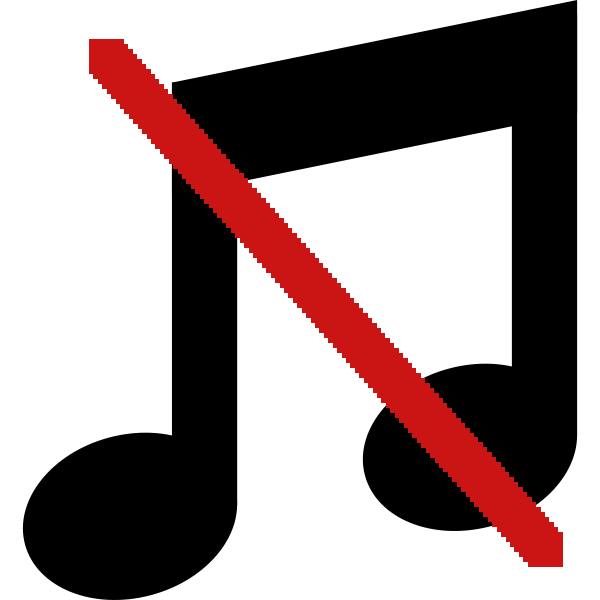
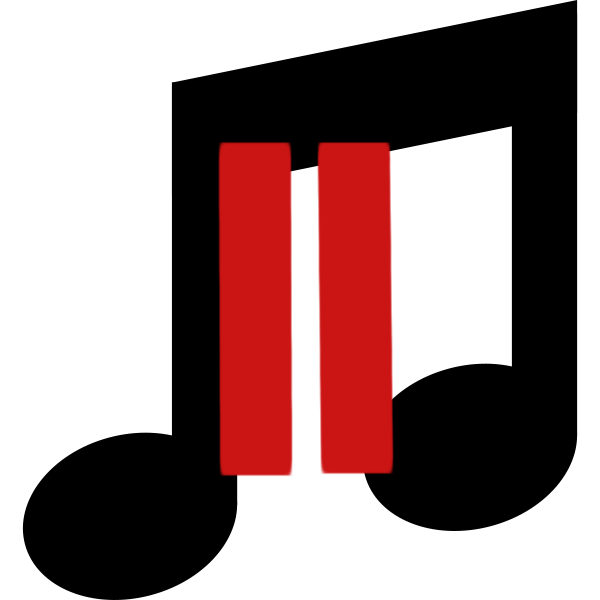
Fixed music note images for Curry page. Fixed heading font on sewing machine repair page.

Changed region(s): [[0.15, 0.06, 0.96, 0.96]]

diff --git a/Curry.html b/Curry.html
@@ -24,10 +24,10 @@ document.onreadystatechange = function(e)
 
 		if (mainAudioElement.paused) {
 			mainAudioElement.play();
-			mainAudioImage.src = "Resources/musicNote_play.png";
+			mainAudioImage.src = "Resources/musicNote_pause.png";
 		} else {
 			mainAudioElement.pause();
-			mainAudioImage.src = "Resources/musicNote_pause.png";
+			mainAudioImage.src = "Resources/musicNote_play.png";
 		}
 	}
 
@@ -50,7 +50,7 @@ document.onreadystatechange = function(e)
 <div class="old container">
 
 <button id="play-main-music" type="button">
-	<img id="music-note-main" src="Resources/musicNote_pause.png"/>
+	<img id="music-note-main" src="Resources/musicNote_play.png"/>
 </button>
 
 <h1 class="head-retro">Official Fanpage of Curry the Cockatiel</h1>
@@ -96,11 +96,6 @@ document.onreadystatechange = function(e)
 <img src="Resources/curry_companion.jpg"/>
 
 <div class="note">(aww omg so cute!)</div>
-
-<!-- <p>He also gets mad at his reflection sometimes.</p>
-
-(pic of mirror hiss)
-
 
 </div>
 

diff --git a/index.html b/index.html
@@ -18,7 +18,7 @@
 <div class="container">
 	<h1 class="head-normal">Hi! I'm Chelsea Battell</h1>
 
-	<img src="Resources/self_main.jpg">
+	<img src="Resources/self_main.jpg"/>
 
 	<p>I like logic and crafts. I have a master's degree in mathematics. My <a href="Research.html">research</a> is in the areas of proof theory and formal methods for software engineering. When not thining about logic and programming languages or engaging in crafty pursuits, I spend time with my cockatiel, <a href="Curry.html"/>Curry</a>.</p>
 

diff --git a/Blog/SewingMachineRepair.html b/Blog/SewingMachineRepair.html
@@ -9,7 +9,7 @@
 
 <img src="../Resources/sewingMachine.jpg" class="feature-photo">
 
-<h1>Repairing an Old Sewing Machine</h1>
+<h1 class="head-normal">Repairing an Old Sewing Machine</h1>
 
 <p>
 About 10 years ago my father gave me a sewing machine in a cabinet that was given to him for free. The top of the cabinet could be folded up and to the side, revealing the sewing machine that could then be raised up to sit on the table-top. It was something like this:
